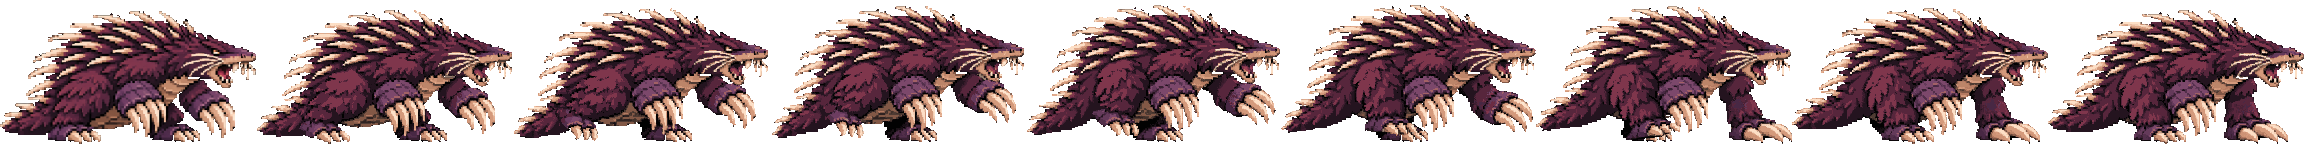
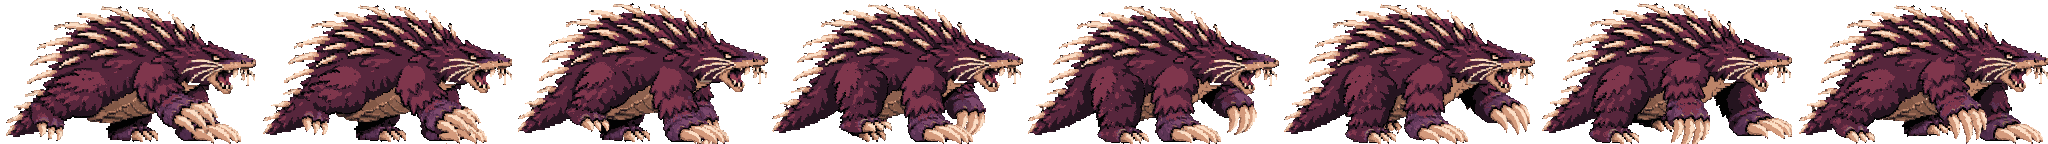
Regenerate Mogurodon walk on all fours
The previous walk kept the raised near front claw from the base art
still for the whole cycle. New 8-frame loop is generated from a planted
all-fours pose used as both first and last frame, so every leg steps
and the cycle closes cleanly. pixellab_animate.py gains --last.

Claude-Session: https://claude.ai/code/session_01SJ9dCwY7ZiYFpNdNsihnJu

diff --git a/src/presentation.ts b/src/presentation.ts
@@ -25,7 +25,7 @@ const images=new Map<string,HTMLImageElement>();
 // `idle` is required; any other animation falls back to idle until it exists and has loaded.
 type Strip={src:string,frames:number,fps:number};
 export const SPRITES:Record<string,{width:number,anims:Record<string,Strip>}>={
- Mogurodon:{width:120,anims:{idle:{src:'assets/mogurodon-idle.png',frames:8,fps:8},walk:{src:'assets/mogurodon-walk.png',frames:9,fps:10}}},
+ Mogurodon:{width:120,anims:{idle:{src:'assets/mogurodon-idle.png',frames:8,fps:8},walk:{src:'assets/mogurodon-walk.png',frames:8,fps:10}}},
 };
 function preload(src:string){if(typeof Image==='undefined'||images.has(src))return;const img=new Image();img.src=src;images.set(src,img);}
 function ready(src?:string){const img=src?images.get(src):null;return !!img?.complete&&!!img.naturalWidth;}

diff --git a/tools/pixellab_animate.py b/tools/pixellab_animate.py
@@ -30,12 +30,14 @@ def main():
     ap.add_argument('--subject'); ap.add_argument('--pose')
     ap.add_argument('--direction', default='east'); ap.add_argument('--view', default='side')
     ap.add_argument('--seed', type=int, default=0)
+    ap.add_argument('--last', help='optional end pose (same size); pass the first frame again to force a closed loop')
     a = ap.parse_args()
     body = {'first_frame': {'type': 'base64', 'format': 'png', 'base64': base64.b64encode(open(a.first, 'rb').read()).decode()},
             'description': a.motion, 'frame_count': a.frames, 'no_background': True,
             'direction': a.direction, 'view': a.view, 'seed': a.seed}
     if a.subject: body['subject_description'] = a.subject
     if a.pose: body['initial_pose'] = a.pose
+    if a.last: body['last_frame'] = {'type': 'base64', 'format': 'png', 'base64': base64.b64encode(open(a.last, 'rb').read()).decode()}
     job = call('POST', '/animate-pixminimax', body)['background_job_id']
     while (j := call('GET', f'/background-jobs/{job}'))['status'] == 'processing':
         time.sleep(6)

diff --git a/README.md b/README.md
@@ -51,7 +51,7 @@ Score is earned points minus actual HP damage penalty, including healed damage. 
 - `src/game.ts`: input, simulation composition, camera, UI, Canvas rendering; update separated from rendering.
 - `public/`: responsive 16:9 shell and asset slots. Art hooks are `monster`, `drawBuilding`, `drawCampaignObjective`, `drawMilitary`, `drawPopulation` and `background`.
 
-**Art:** `public/assets/mogurodon.png` is the first final sprite (transparent, keyed from the supplied render and downscaled to 444×231). Sprites are registered in `SPRITES` in `src/presentation.ts` and used by gameplay, selection previews and the ending scene; kaiju without a sprite fall back to the geometric silhouettes. Mogurodon has an 8-frame idle loop (`public/assets/mogurodon-idle.png`, 256×144 frames, 8 fps) generated with PixelLab from the base sprite via `tools/pixellab_animate.py`; and a 9-frame walk loop (`public/assets/mogurodon-walk.png`, 10 fps) plays while moving on the ground. Other states still use idle (no attack/jump frames yet). `mogurodon.png` is kept as the higher-res base/reference.
+**Art:** `public/assets/mogurodon.png` is the first final sprite (transparent, keyed from the supplied render and downscaled to 444×231). Sprites are registered in `SPRITES` in `src/presentation.ts` and used by gameplay, selection previews and the ending scene; kaiju without a sprite fall back to the geometric silhouettes. Mogurodon has an 8-frame idle loop (`public/assets/mogurodon-idle.png`, 256×144 frames, 8 fps) generated with PixelLab from the base sprite via `tools/pixellab_animate.py`; and an 8-frame all-fours walk loop (`public/assets/mogurodon-walk.png`, 10 fps, generated from a planted all-fours pose with that pose as both first and last frame so it closes cleanly) plays while moving on the ground. Other states still use idle (no attack/jump frames yet). `mogurodon.png` is kept as the higher-res base/reference.
 
 No user sprites were imported or overwritten; supplied documents were preserved. All current art is explicitly temporary Canvas geometry, with no AI asset generation or sound. Put final hand-drawn sprites in `public/assets/`, preserve transparent originals, use bottom-center anchors, integer frame rectangles and nearest-neighbor filtering. Final kaiju sheets, building/unit sprites, intro/menu and six ending illustrations remain missing.
 
